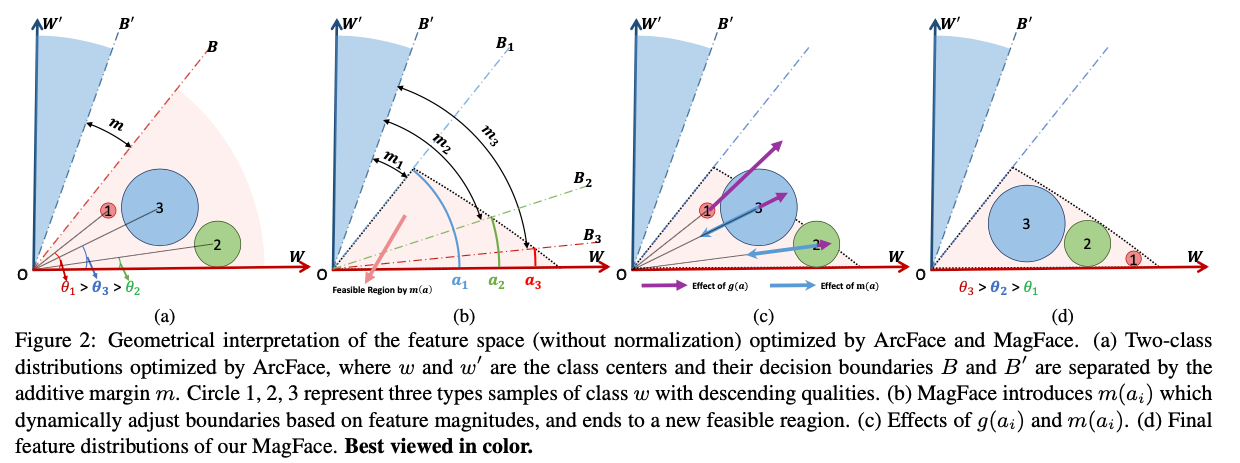
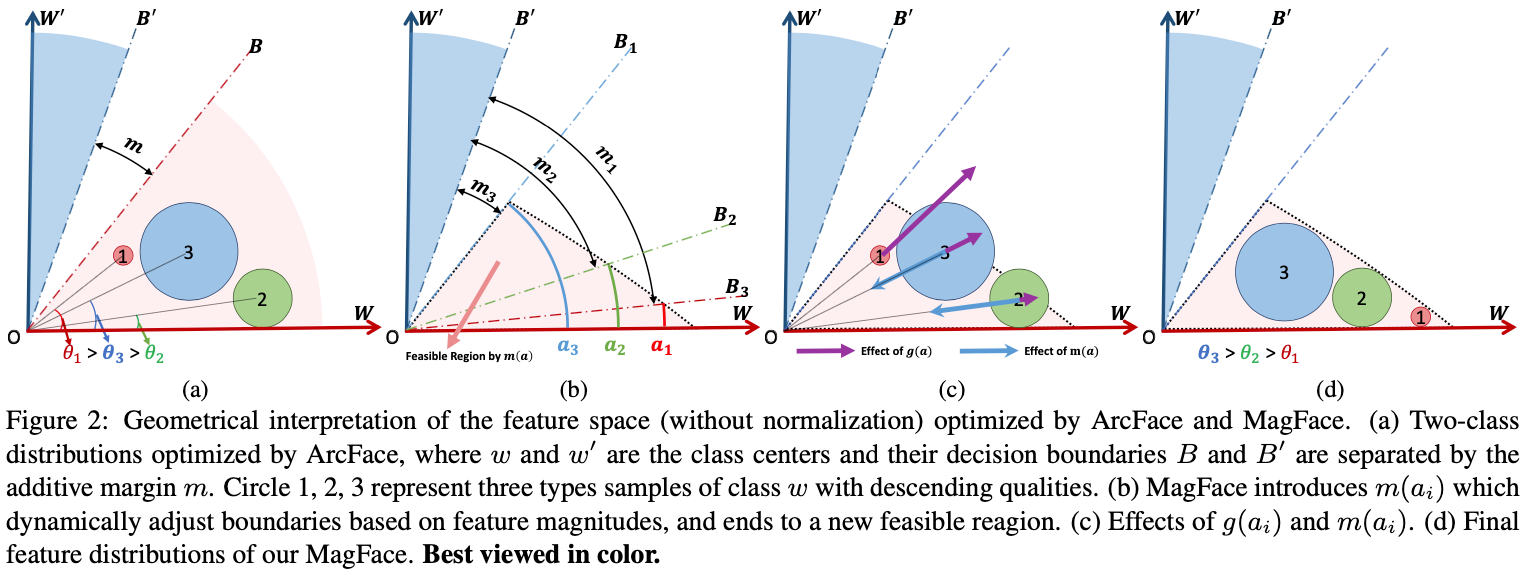
add gdrive link and fix figure 2

diff --git a/README.md b/README.md
@@ -4,9 +4,9 @@ in *IEEE Conference on Computer Vision and Pattern Recognition (CVPR)*, 2021, **
 
 Authors are from [AiBee](https://www.aibee.cn/).
 
-![margin penalty for target logit](raw/magface.png)
+![magface](raw/magface.png)
 
-**Paper**: [arXiv](https://arxiv.org/abs/2103.06627)
+**Paper**: [arXiv](https://arxiv.org/abs/2103.06627) (**NOTE**: Figure 2 in the arxiv version is incorrect and will be fixed later. Use the above one instead.)
 
 **A toy example**: [examples.ipynb](inference/examples.ipynb)
 
@@ -14,7 +14,7 @@ Authors are from [AiBee](https://www.aibee.cn/).
 
 **Presentation**: TBD
 
-**CheckPoint**: GoogleDrive (TBD), [BaiduDrive](https://pan.baidu.com/s/15iKz3wv6UhKmPGR6ltK4AA) code: wsw3
+**CheckPoint**: [GoogleDrive](https://drive.google.com/file/d/1Bd87admxOZvbIOAyTkGEntsEz3fyMt7H/view?usp=sharing), [BaiduDrive](https://pan.baidu.com/s/15iKz3wv6UhKmPGR6ltK4AA) code: wsw3
 
 **NOTE**: The original codes are implemented on [AiBee](https://www.aibee.cn/)'s codebase and will not be released. 
 See todo list for plans.
@@ -26,14 +26,14 @@ See todo list for plans.
 @inproceedings{meng2021magface,
   title={MagFace: A universal representation for face recognition and quality assessment},
   author={Meng, Qiang and Zhao, Shichao and Huang, Zhida and Zhou, Feng},
-  booktitle=IEEE Conference on Computer Vision and Pattern Recognition (CVPR),
+  booktitle=IEEE Conference on Computer Vision and Pattern Recognition,
   year=2021
 }
 ```
 
 ## Usage
 1. Prepare a training list with format `imgname 0 id 0` in each line, as indicated [here](dataloader/dataloader.py#L31-L32).
-2. Modify parameters run/run.sh and run it!
+2. Modify parameters in run/run.sh and run it!
 ```
 cd run/
 ./run.sh
@@ -43,8 +43,10 @@ cd run/
 TODO list:
 
 - [x] add toy examples and release models
-- [ ] migrate basic codes from AiBee's codebase
-- [ ] Test the basic codes
+- [x] migrate basic codes from AiBee's codebase 
+- [ ] add presentation (after the ddl for iccv2021)
+- [ ] test the basic codes 
+- [ ] extend the idea to CosFace
 - [ ] migrate parallel training 
 - [ ] add evaluation codes for recognition
 - [ ] add evaluation codes for quality assessment
